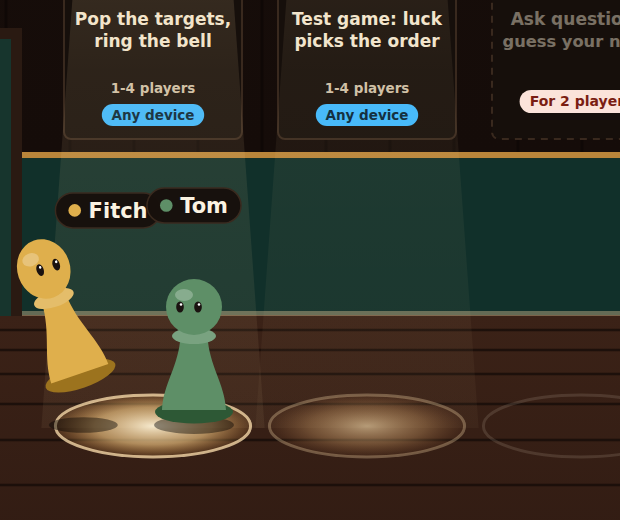
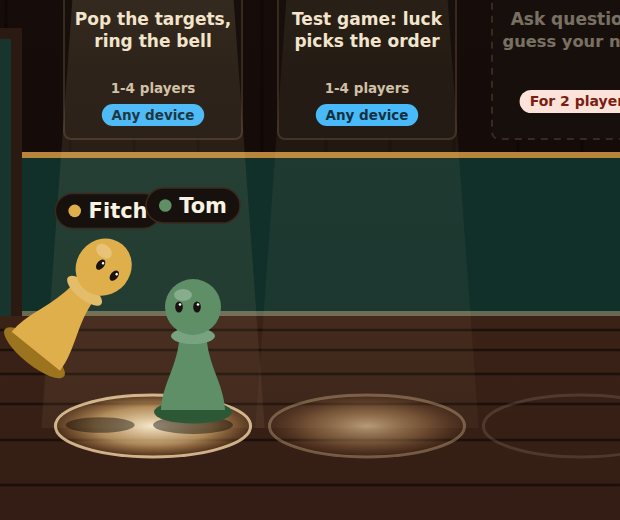
feat(lobby): the bump is a kick from the base, not a headbutt (#17)
The bump is now a kick: the piece is picked up by its head and strikes with its base, and the other piece is hit low and goes back feet first.
Both looks draw it from the same shared poses; timings and rules are unchanged.

diff --git a/lobby/shared/bump.js b/lobby/shared/bump.js
@@ -7,8 +7,9 @@
 //
 // Every page then plays the same short story from the moment it hears of it:
 //
-//   the bumper   winding (lifts and leans back) -> striking (slams forward) -> recovering
-//   the victim   standing -> hit (squashed, both hold still) -> flying (thrown back, tipping
+//   the bumper   winding (picked up by its head, base swung back) -> striking (the base kicks
+//                forward and up) -> recovering (follows through, is set back down)
+//   the victim   standing -> hit (kicked low, both hold still) -> flying (thrown back feet first, tipping
 //                over) -> down (lying on the floor) -> rising -> up, and safe for a while
 //
 // The poses are offsets and angles in world units and degrees, so any drawing (the SVG room of
@@ -180,36 +181,69 @@ export function knockState(ms, safeFor = IMMUNE_MS) {
 }
 
 // ---------------------------------------------------------------- the poses
+//
+// The bump is a kick. The bumper is picked up by its head, as if a hand had pinched the top:
+// the head is the pivot, and the base swings back behind it like a leg drawn back, then whips
+// forward and up into the other piece low down. Whoever is hit has its base swept out from
+// under it and goes up and back feet first.
 
 const REST = { dx: 0, lift: 0, tilt: 0, sx: 1, sy: 1 };
 const smooth = (u) => u * u * (3 - 2 * u);
 const mix = (a, b, u) => a + (b - a) * u;
+const blend = (a, b, u) => ({ dx: mix(a.dx, b.dx, u), lift: mix(a.lift, b.lift, u), tilt: mix(a.tilt, b.tilt, u), sx: mix(a.sx, b.sx, u), sy: mix(a.sy, b.sy, u) });
+
+/** How high a piece's head is above its foot: what the bumper swings from, like a pendulum held at the top. */
+export const PIECE_HEAD = 113;
+/** How high on the knocked piece the kick lands: its belly, well below its middle. */
+export const KICK_HEIGHT = 40;
+
+/** The share of the recovery spent following through, and the share at its end spent being set down. */
+const FOLLOW = 0.26;
+const SETTLE = 0.24;
 
 /**
- * How the bumper holds itself `ms` after its bump, facing `dir`: {state, dx, lift, tilt, sx, sy}.
- * dx: sideways from where it stands. lift: off the floor. tilt: degrees, clockwise, about its
- * foot. sx, sy: stretch, about its foot.
+ * How the bumper holds itself `ms` after its bump, facing `dir`:
+ * {state, dx, lift, tilt, pivot, sx, sy}.
+ * dx: its head, sideways from where it stands (it barely moves). lift: off the floor.
+ * tilt: degrees, clockwise, about a point `pivot` above its foot: its head, so a tilt swings
+ * the base (clockwise swings it to the left). sx, sy: stretch, about its foot.
  */
 export function attackPose(ms, dir = 1, landed = false) {
   const state = attackState(ms, landed);
   const side = dir < 0 ? -1 : 1;
-  const back = { dx: -26 * side, lift: 38, tilt: -20 * side, sx: 0.94, sy: 1.08 };
-  const through = { dx: 62 * side, lift: 4, tilt: 28 * side, sx: 1.1, sy: 0.92 };
+  const down = { dx: 0, lift: 0, tilt: 0, sx: 1, sy: 1 };
+  // Picked up, with the base drawn back behind the head.
+  const back = { dx: -8 * side, lift: 36, tilt: 40 * side, sx: 0.97, sy: 1.05 };
+  // The base has whipped forward and up into the other piece's belly; the head has hardly moved.
+  const contact = { dx: 12 * side, lift: 12, tilt: -46 * side, sx: 0.97, sy: 1.07 };
+  // The follow-through: the base carries on up past where the other piece was.
+  const through = { dx: 18 * side, lift: 28, tilt: -62 * side, sx: 0.98, sy: 1.04 };
+  // Hanging upright just off the floor, about to be set down.
+  const held = { dx: 0, lift: 7, tilt: 0, sx: 1, sy: 1 };
   if (state === "winding") {
-    const u = smooth(ms / WINDUP_MS);
-    return { state, dx: back.dx * u, lift: back.lift * u, tilt: back.tilt * u, sx: mix(1, back.sx, u), sy: mix(1, back.sy, u) };
+    const u = ms / WINDUP_MS;
+    // The hand lifts first; the base swings back a moment behind it.
+    const pose = blend(down, back, smooth(u));
+    return { state, pivot: PIECE_HEAD, ...pose, lift: back.lift * (1 - (1 - u) * (1 - u)) };
   }
   if (state === "striking") {
-    // The slam itself, then (if it landed) held for the pause.
+    // The kick itself, gathering speed all the way, then (if it landed) held for the pause.
     const u = Math.min(1, (ms - WINDUP_MS) / STRIKE_MS);
-    const v = u * u;
-    return { state, dx: mix(back.dx, through.dx, v), lift: mix(back.lift, through.lift, v), tilt: mix(back.tilt, through.tilt, v), sx: mix(back.sx, through.sx, v), sy: mix(back.sy, through.sy, v) };
+    return { state, pivot: PIECE_HEAD, ...blend(back, contact, u * u) };
   }
   if (state === "recovering") {
-    const u = smooth((ms - IMPACT_MS - (landed ? HIT_PAUSE_MS : 0)) / RECOVER_MS);
-    return { state, dx: through.dx * (1 - u), lift: through.lift * (1 - u), tilt: through.tilt * (1 - u), sx: mix(through.sx, 1, u), sy: mix(through.sy, 1, u) };
+    const u = (ms - IMPACT_MS - (landed ? HIT_PAUSE_MS : 0)) / RECOVER_MS;
+    if (u < FOLLOW) {
+      const v = u / FOLLOW;
+      return { state, pivot: PIECE_HEAD, ...blend(contact, through, 1 - (1 - v) * (1 - v)) };
+    }
+    if (u < 1 - SETTLE) return { state, pivot: PIECE_HEAD, ...blend(through, held, smooth((u - FOLLOW) / (1 - SETTLE - FOLLOW))) };
+    // Set back down, with a small settle as the base takes the weight.
+    const v = (u - (1 - SETTLE)) / SETTLE;
+    const give = Math.sin(v * Math.PI) * 0.07;
+    return { state, pivot: PIECE_HEAD, dx: 0, lift: held.lift * (1 - smooth(Math.min(1, v * 2))), tilt: 0, sx: 1 + give * 0.7, sy: 1 - give };
   }
-  return { state, ...REST };
+  return { state, pivot: 0, ...REST };
 }
 
 /**
@@ -217,21 +251,27 @@ export function attackPose(ms, dir = 1, landed = false) {
  * {state, x, lift, tilt, sx, sy}. x: where it is along the floor. lift: off the floor (below
  * zero as it lies down, since it turns about its middle). tilt: degrees, clockwise, about
  * PIECE_PIVOT above its foot. sx, sy: stretch.
+ *
+ * It is kicked low, so its base goes first: it tips with its feet leading the way it is
+ * thrown and its head trailing, and comes down on its back with its feet pointing away from
+ * whoever kicked it.
  */
 export function knockPose(ms, from, to, safeFor = IMMUNE_MS) {
   const state = knockState(ms, safeFor);
   const side = to < from ? -1 : 1;
   // Lying down, a piece rests on its side: its middle is nearer the floor than when it stands.
-  const lying = { lift: -36, tilt: 90 * side };
+  const lying = { lift: -36, tilt: -90 * side };
+  // The moment after the blow: the base is already going, the head has not caught up.
+  const swept = { x: from + 6 * side, lift: 8, tilt: -18 * side, sx: 0.84, sy: 1.14 };
   if (state === "standing") return { state, x: from, ...REST };
   if (state === "hit") {
     const u = (ms - IMPACT_MS) / HIT_PAUSE_MS;
-    return { state, x: from + 10 * side * u, lift: 0, tilt: 12 * side * u, sx: mix(1, 0.8, u), sy: mix(1, 1.16, u) };
+    return { state, x: mix(from, swept.x, u), lift: swept.lift * u, tilt: swept.tilt * u, sx: mix(1, swept.sx, u), sy: mix(1, swept.sy, u) };
   }
   if (state === "flying") {
     const u = (ms - IMPACT_MS - HIT_PAUSE_MS) / FLIGHT_MS;
     const out = 1 - (1 - u) * (1 - u);
-    return { state, x: mix(from + 10 * side, to, out), lift: 4 * 64 * u * (1 - u) + lying.lift * u * u, tilt: mix(12 * side, lying.tilt, smooth(u)), sx: mix(0.8, 1, u), sy: mix(1.16, 1, u) };
+    return { state, x: mix(swept.x, to, out), lift: swept.lift * (1 - u) + 4 * 64 * u * (1 - u) + lying.lift * u * u, tilt: mix(swept.tilt, lying.tilt, smooth(u)), sx: mix(swept.sx, 1, u), sy: mix(swept.sy, 1, u) };
   }
   if (state === "down") {
     // A small bounce as it comes to rest.
@@ -246,10 +286,10 @@ export function knockPose(ms, from, to, safeFor = IMMUNE_MS) {
 }
 
 /**
- * Where the blow lands, for the burst: on the side of the knocked piece the blow came from,
- * at the height of its shoulders. `from` and `to` are where the piece stood and where it lands.
+ * Where the blow lands, for the burst: low on the knocked piece, on the side the kick came
+ * from. `from` and `to` are where the piece stood and where it lands.
  */
 export function impactPoint(from, to) {
   const side = to < from ? -1 : 1;
-  return { x: from - side * 26, y: ROOM.floorY - 96 };
+  return { x: from - side * 24, y: ROOM.floorY - KICK_HEIGHT };
 }

diff --git a/lobby/test/bump.test.js b/lobby/test/bump.test.js
@@ -12,9 +12,12 @@ import {
   HIT_PAUSE_MS,
   IMMUNE_MS,
   IMPACT_MS,
+  KICK_HEIGHT,
   KNOCK_CLEAR,
   KNOCK_DISTANCE,
   KNOCK_MIN,
+  PIECE_HEAD,
+  PIECE_PIVOT,
   RECOVER_MS,
   STUN_MS,
   WINDUP_MS,
@@ -179,24 +182,64 @@ describe("the bumper's states", () => {
     expect(b).toEqual(a);
   });
 
-  it("lifts and leans back, then slams forward the way it faces", () => {
+  /**
+   * Where the bumper's head and base are, from a pose, for a piece standing at x = 0: sideways
+   * (positive is the way it faces when dir is 1) and up from the floor. The pose tilts the
+   * piece clockwise about a point `pivot` above its foot.
+   */
+  function ends(pose) {
+    const a = (pose.tilt * Math.PI) / 180;
+    const base = { x: pose.dx - pose.pivot * Math.sin(a), up: pose.lift + pose.pivot * (1 - Math.cos(a)) };
+    const head = { x: pose.dx + (PIECE_HEAD - pose.pivot) * Math.sin(a), up: pose.lift + pose.pivot + (PIECE_HEAD - pose.pivot) * Math.cos(a) };
+    return { base, head };
+  }
+
+  it("is a kick: picked up by the head, the base swings back, then whips forward and up, low into the other piece", () => {
     const up = attackPose(WINDUP_MS - 1, 1);
     expect(up.state).toBe("winding");
+    expect(up.pivot).toBe(PIECE_HEAD);
+    // Picked up: the whole piece is off the floor, and the base is drawn back behind the head.
     expect(up.lift).toBeGreaterThan(30);
-    expect(up.dx).toBeLessThan(-15);
-    expect(up.tilt).toBeLessThan(-12);
-    const slam = attackPose(IMPACT_MS - 1, 1);
-    expect(slam.dx).toBeGreaterThan(40);
-    expect(slam.tilt).toBeGreaterThan(15);
-    expect(slam.lift).toBeLessThan(15);
+    expect(ends(up).base.x).toBeLessThan(-60);
+    expect(Math.abs(ends(up).head.x)).toBeLessThan(12);
+    const kick = attackPose(IMPACT_MS - 1, 1);
+    // The base is what reaches the other piece, far in front, at the height of its belly.
+    expect(ends(kick).base.x).toBeGreaterThan(80);
+    expect(ends(kick).base.up).toBeGreaterThan(KICK_HEIGHT - 12);
+    expect(ends(kick).base.up).toBeLessThan(KICK_HEIGHT + 20);
+    // The head barely moves forward: never a headbutt. The base leads it by a long way, all through the strike.
+    expect(Math.abs(ends(kick).head.x)).toBeLessThan(16);
+    for (let ms = IMPACT_MS - 6; ms < IMPACT_MS + HIT_PAUSE_MS + RECOVER_MS * 0.4; ms += 5) {
+      const now = ends(attackPose(ms, 1, true));
+      expect(now.base.x - now.head.x, `base ahead of head at ${ms}`).toBeGreaterThan(20);
+    }
+    for (let ms = 0; ms < 700; ms += 5) {
+      const now = ends(attackPose(ms, 1, true));
+      expect(Math.abs(now.head.x), `head at ${ms}`).toBeLessThan(22);
+      expect(now.base.up, `base above the floor at ${ms}`).toBeGreaterThanOrEqual(-0.001);
+    }
+    // The follow-through carries the base on up past where the other piece was.
+    const through = attackPose(IMPACT_MS + HIT_PAUSE_MS + RECOVER_MS * 0.26, 1, true);
+    expect(ends(through).base.up).toBeGreaterThan(ends(kick).base.up + 25);
+    // Set back down with a small settle: on the floor, upright, squashed a little, then still.
+    const settle = attackPose(IMPACT_MS + HIT_PAUSE_MS + RECOVER_MS * 0.9, 1, true);
+    expect(settle).toMatchObject({ state: "recovering", tilt: 0, dx: 0 });
+    expect(settle.lift).toBeLessThan(1);
+    expect(settle.sy).toBeLessThan(0.97);
     // Facing left it is the mirror image.
     const left = attackPose(IMPACT_MS - 1, -1);
-    expect(left.dx).toBeCloseTo(-slam.dx);
-    expect(left.tilt).toBeCloseTo(-slam.tilt);
-    expect(left.lift).toBeCloseTo(slam.lift);
-    expect(attackPose(5000, 1)).toEqual({ state: "idle", dx: 0, lift: 0, tilt: 0, sx: 1, sy: 1 });
+    expect(left.dx).toBeCloseTo(-kick.dx);
+    expect(left.tilt).toBeCloseTo(-kick.tilt);
+    expect(left.lift).toBeCloseTo(kick.lift);
+    expect(ends(left).base.x).toBeCloseTo(-ends(kick).base.x);
+    expect(attackPose(5000, 1)).toEqual({ state: "idle", pivot: 0, dx: 0, lift: 0, tilt: 0, sx: 1, sy: 1 });
     const start = attackPose(0, 1);
     expect(Math.abs(start.dx) + Math.abs(start.lift) + Math.abs(start.tilt)).toBe(0);
+  });
+
+  it("keeps the shape the drawings read: state, dx, lift, tilt, pivot, sx, sy", () => {
+    for (const ms of [0, 60, 130, 200, 300, 400, 900]) expect(Object.keys(attackPose(ms, 1, true)).sort()).toEqual(["dx", "lift", "pivot", "state", "sx", "sy", "tilt"]);
+    for (const ms of [0, 180, 300, 520, 650, 800, 5000]) expect(Object.keys(knockPose(ms, 500, 710))).toEqual(expect.arrayContaining(["lift", "state", "sx", "sy", "tilt", "x"]));
   });
 
   it("never jumps from one frame to the next", () => {
@@ -227,26 +270,31 @@ describe("the knocked piece's states", () => {
     expect(knockState(-1)).toBe("up");
   });
 
-  it("is thrown from where it stood to where it lands, tips right over, and rights itself", () => {
+  it("is kicked low: its base is swept out from under it, it goes feet first, lands on its back and rights itself", () => {
     const [from, to] = [500, 710];
     expect(knockPose(IMPACT_MS - 1, from, to)).toMatchObject({ state: "standing", x: from, tilt: 0, lift: 0 });
     const squashed = knockPose(IMPACT_MS + HIT_PAUSE_MS - 1, from, to);
     expect(squashed.state).toBe("hit");
     expect(squashed.sx).toBeLessThan(0.9);
     expect(squashed.sy).toBeGreaterThan(1.05);
+    // Thrown to the right, it turns anticlockwise about its middle: the base leads, the head trails.
+    expect(squashed.tilt).toBeLessThan(-10);
     const mid = knockPose(IMPACT_MS + HIT_PAUSE_MS + FLIGHT_MS / 2, from, to);
     expect(mid.state).toBe("flying");
     expect(mid.x).toBeGreaterThan(from + 100);
     expect(mid.x).toBeLessThan(to);
     expect(mid.lift).toBeGreaterThan(30);
-    expect(mid.tilt).toBeGreaterThan(30);
+    expect(mid.tilt).toBeLessThan(-30);
+    const a = (mid.tilt * Math.PI) / 180;
+    // Where its base and its head are along the floor: the feet are ahead of the head.
+    expect(mid.x - PIECE_PIVOT * Math.sin(a)).toBeGreaterThan(mid.x + (PIECE_HEAD - PIECE_PIVOT) * Math.sin(a) + 40);
     const flat = knockPose(STUN_MS - GETUP_MS - 1, from, to);
-    expect(flat).toMatchObject({ state: "down", x: to, tilt: 90 });
+    expect(flat).toMatchObject({ state: "down", x: to, tilt: -90 });
     expect(flat.lift).toBeLessThan(0);
     const up = knockPose(STUN_MS, from, to);
     expect(up).toEqual({ state: "safe", x: to, dx: 0, lift: 0, tilt: 0, sx: 1, sy: 1 });
     // Thrown to the left it tips the other way.
-    expect(knockPose(STUN_MS - GETUP_MS - 1, 710, 500).tilt).toBe(-90);
+    expect(knockPose(STUN_MS - GETUP_MS - 1, 710, 500).tilt).toBe(90);
   });
 
   it("moves without a jump from one frame to the next, and ends exactly where the room put it", () => {
@@ -264,9 +312,10 @@ describe("the knocked piece's states", () => {
     expect(last.x).toBe(to);
   });
 
-  it("puts the burst on the side of the piece the blow came from", () => {
-    expect(impactPoint(460, 670)).toEqual({ x: 434, y: ROOM.floorY - 96 });
-    expect(impactPoint(460, 250)).toEqual({ x: 486, y: ROOM.floorY - 96 });
+  it("puts the burst where the kick lands: low, on the side of the piece the blow came from", () => {
+    expect(impactPoint(460, 670)).toEqual({ x: 436, y: ROOM.floorY - KICK_HEIGHT });
+    expect(impactPoint(460, 250)).toEqual({ x: 484, y: ROOM.floorY - KICK_HEIGHT });
+    expect(KICK_HEIGHT).toBeLessThan(PIECE_PIVOT);
   });
 });
 

diff --git a/lobby/public/look3d/pieces.js b/lobby/public/look3d/pieces.js
@@ -6,7 +6,7 @@
 // into a walk, rocks from foot to foot, stretches in the air and squashes on landing.
 import * as THREE from "./three.js";
 import { PX, SPACE, walkX } from "./space.js";
-import { IMMUNE_MS, IMPACT_MS, PIECE_PIVOT, STUN_MS, attackPose, impactPoint, knockPose } from "../shared/bump.js";
+import { IMMUNE_MS, IMPACT_MS, PIECE_HEAD, PIECE_PIVOT, STUN_MS, attackPose, impactPoint, knockPose } from "../shared/bump.js";
 import { JUMP_MS, WALK_SPEED, jumpHeight } from "../shared/world.js";
 
 /** How big a piece is beside the room. */
@@ -132,8 +132,9 @@ export function disposePawn(pawn) {
 // degrees. The flat drawing turns those numbers into SVG (../bump-draw.js); this turns the same
 // numbers into a pawn. So the two drawings show the same story at the same moments:
 //
-//   the bumper   winding (lifts and leans back) -> striking (slams forward) -> recovering
-//   the victim   standing -> hit (squashed) -> flying (thrown, tipping over) -> down (lying on
+//   the bumper   winding (picked up by its head, base swung back) -> striking (the base kicks
+//                forward and up, low into the other piece) -> recovering (follows through, set down)
+//   the victim   standing -> hit (kicked low) -> flying (thrown feet first, tipping over) -> down (lying on
 //                the floor) -> rising -> safe (up, and cannot be knocked again for a while)
 //
 // A piece's record carries two things the room view (room3d.js) writes when it hears of a bump:
@@ -142,6 +143,8 @@ export function disposePawn(pawn) {
 
 const UPRIGHT = { x: null, dx: 0, lift: 0, lean: 0, pivot: 0, sx: 1, sy: 1, state: "idle", dizzy: false, safe: false, shock: false, burst: null, dust: null };
 const RAD = Math.PI / 180;
+/** The shared poses give the height of a piece's head for the flat pawn; this pawn's head (the middle of its ball) is here. */
+const HEAD_SCALE = (0.9 * SIZE) / PX / PIECE_HEAD;
 
 /**
  * How a bump has a piece standing right now.
@@ -178,7 +181,8 @@ export function bumpPose(piece, now) {
   if (a) {
     const pose = attackPose(now - a.at, a.dir, a.landed);
     if (pose.state === "idle") piece.attack = null;
-    else return { ...UPRIGHT, dx: pose.dx, lift: pose.lift, lean: -pose.tilt * RAD, sx: pose.sx, sy: pose.sy, state: pose.state };
+    // The bumper swings from its head, like a pendulum held at the top: a lean throws its base, not its head.
+    else return { ...UPRIGHT, dx: pose.dx, lift: pose.lift, lean: -pose.tilt * RAD, pivot: pose.pivot * HEAD_SCALE, sx: pose.sx, sy: pose.sy, state: pose.state };
   }
   return UPRIGHT;
 }

diff --git a/lobby/public/bump-draw.js b/lobby/public/bump-draw.js
@@ -91,7 +91,8 @@ export class BumpDraw {
     if (a) {
       const pose = attackPose(now - a.at, a.dir, a.landed);
       if (pose.state === "idle") p.attack = null;
-      else return { x: null, dx: pose.dx, lift: pose.lift, tilt: pose.tilt, pivot: 0, sx: pose.sx, sy: pose.sy, state: pose.state, dizzy: false, safe: false };
+      // The bumper swings from its head (pose.pivot), so a tilt throws its base, not its head.
+      else return { x: null, dx: pose.dx, lift: pose.lift, tilt: pose.tilt, pivot: pose.pivot, sx: pose.sx, sy: pose.sy, state: pose.state, dizzy: false, safe: false };
     }
     return STILL;
   }

diff --git a/lobby/README.md b/lobby/README.md
@@ -21,7 +21,7 @@ Make each window short and wide to see what a sideways phone sees, or use the br
 1. In the first window choose "Start a party", type a name and start.
 2. In the second window type the four-digit code from the sign on the wall, type a name and join.
 3. Walk with the arrow keys (or A and D), jump with the up arrow (or Space), bump with B, and open the door button with Escape. On a touch screen the same things are four buttons, and on a laptop each button shows its key.
-4. Stand one piece just in front of the other and bump: the bumper winds up and slams, the other is thrown back, tips over and gets up. The bump button's ring shows the cooldown.
+4. Stand one piece just in front of the other and bump: the bumper is picked up by its head and kicks with its base, the other is thrown back feet first, tips over and gets up. The bump button's ring shows the cooldown.
 5. Stand both pieces in Coin Flip's light: "Starts in 3" counts down, the game plays, and both are back by the door with points on the Tonight board.
 6. Click the Tonight board on the wall to open it large; click anywhere, press Escape or go back to close it.
 7. Stand one piece in each lit light for a tie and its coin toss.
@@ -90,7 +90,7 @@ The 3D look also loads two small fonts of its own (`public/look3d/fonts/`, with 
 
 Pieces move with weight in the 3D look: they lean into a walk, rock from foot to foot, stretch in the air and squash on landing (`public/look3d/pieces.js`).
 The bump is the shared one (`shared/bump.js`): the 3D look draws the same states at the same moments as the flat drawing, from the same poses, in `bumpPose` in that file under the heading "THE BUMP, DRAWN".
-The bumper winds up and slams forward; whoever it hits is squashed, thrown, lies on the floor with crosses for eyes, gets up and flickers while it cannot be knocked again.
+The bumper is picked up by its head and kicks with its base; whoever it hits is squashed, thrown feet first, lies on the floor with crosses for eyes, gets up and flickers while it cannot be knocked again.
 There is a burst of sparks where the blow lands, dust where the piece comes down, a small jolt of the picture, and a ring under your own piece that fills as your bump recharges.
 The 3D wall follows the flat one: a game's name is on its box and nowhere else, the sign under it says one thing about the game, how many play and on what, and the Tonight board opens when it is tapped.
 
@@ -118,8 +118,8 @@ The 3D wall follows the flat one: a game's name is on its box and nowhere else, 
 ## The bump
 
 Everyone has it, and it is meant to be felt: you pick your piece up and knock somebody over.
-The bumper lifts and leans back (110 ms), slams forward (60 ms), and both pieces hold still for a moment as the blow lands (50 ms) with a burst, a jolt of the picture and a short buzz on both phones where the phone has one.
-Whoever was hit is squashed, thrown back through the air while tipping right over (260 ms), lies on the floor (110 ms) and gets up (150 ms).
+It is a kick, never a headbutt. The bumper is picked up by its head, as if a hand had pinched the top, and its base swings back behind it (110 ms); the base whips forward and up into the other piece low down while the head barely moves (60 ms), and both pieces hold still for a moment as the blow lands (50 ms) with a burst, a jolt of the picture and a short buzz on both phones where the phone has one.
+Whoever was hit is kicked low, so its base is swept out from under it: it is squashed, thrown back through the air feet first while tipping right over (260 ms), lies on the floor (110 ms) and gets up (150 ms).
 
 | | Chosen | Why |
 | --- | --- | --- |
@@ -289,6 +289,7 @@ A lobby nobody touches costs nothing: no timer, no messages, nothing counted, an
 - `npm run lobby:shots:3d` is the same kind of run in the 3D look: a big screen, a sideways phone, an upright phone and a laptop in one live room, with checks that the 3D look drew it, that the words say what the room says, and that a device without hardware WebGL falls back to the flat drawing. Stills land in `lobby/test/shots/3d-live/`.
 - `npm run lobby:stills:3d` takes a still of every skin and of the bar at every moment from posed rooms, into `lobby/test/shots/3d/`, and checks that every room's signs are the same size and in the same place. With `-- --only=loops` it takes each live room's five second show frame by frame. `python3 lobby/test/make-room-pictures.py` then turns the stills and the frames into the pictures the rooms page shows. `-- --gpu=1` uses the Windows side's graphics card, which is much quicker.
 - `npm run lobby:shots:3d` also checks the rooms' life: that two devices in a room agree what time it is in the room and when each passing thing next comes, that a bump by the room's feature sets it off on both and announces its sound by name, and that none of it sends a message.
+- `npm run lobby:shots:bump` takes the bump moment by moment in both looks, flat and 3D, on a big screen and a sideways phone, with each page's clock held still: wind-up, contact, follow-through, the victim in the air, landed, getting up and up again. In the flat look it also reads off the page that the bumper's base is what travels and its head stays put. Stills land in `lobby/test/shots/bump/`.
 - `npm run test:cork:3d` plays several rounds of Cork & Bell inside a room that is in the 3D look, on the Windows side's graphics card: under the game the 3D room is hidden and draws nothing, both pictures keep their WebGL context, the room draws again afterwards, and memory does not climb.
 - `npm run lobby:measure:3d` measures the 3D look's frame time on the Windows side's graphics card, in a headless Chrome. It is a desktop card at a phone's screen size, not a phone.
 - `node lobby/test/e2e-budget.mjs` checks what happens when the allowance is spent; its header says which server to start.
